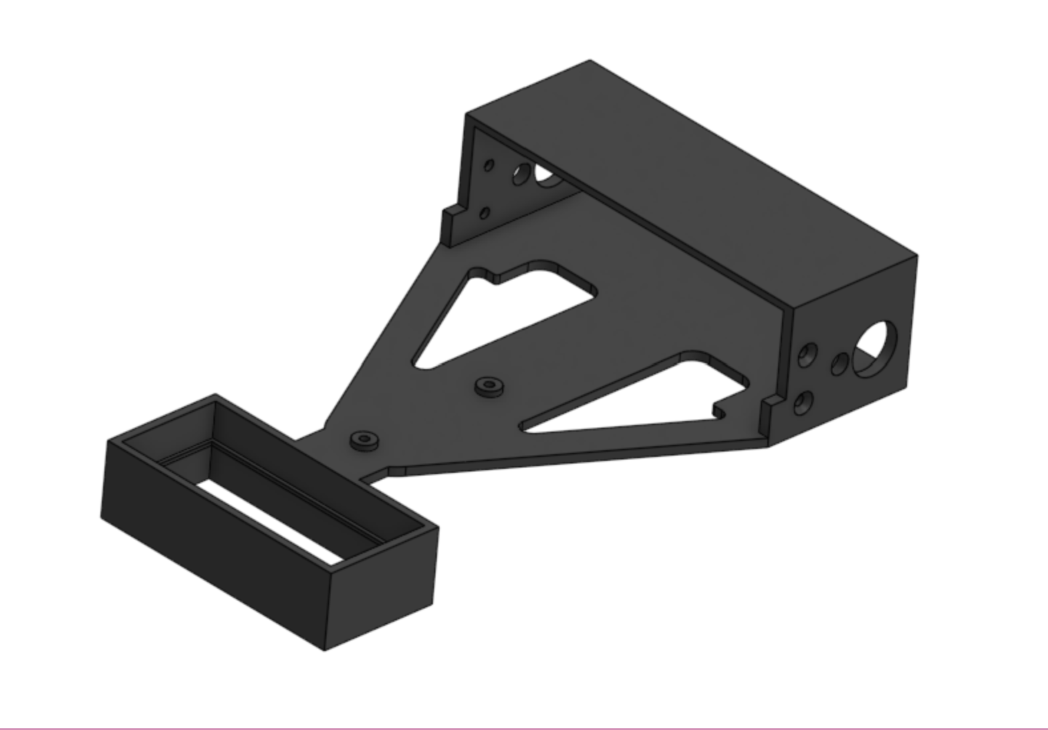
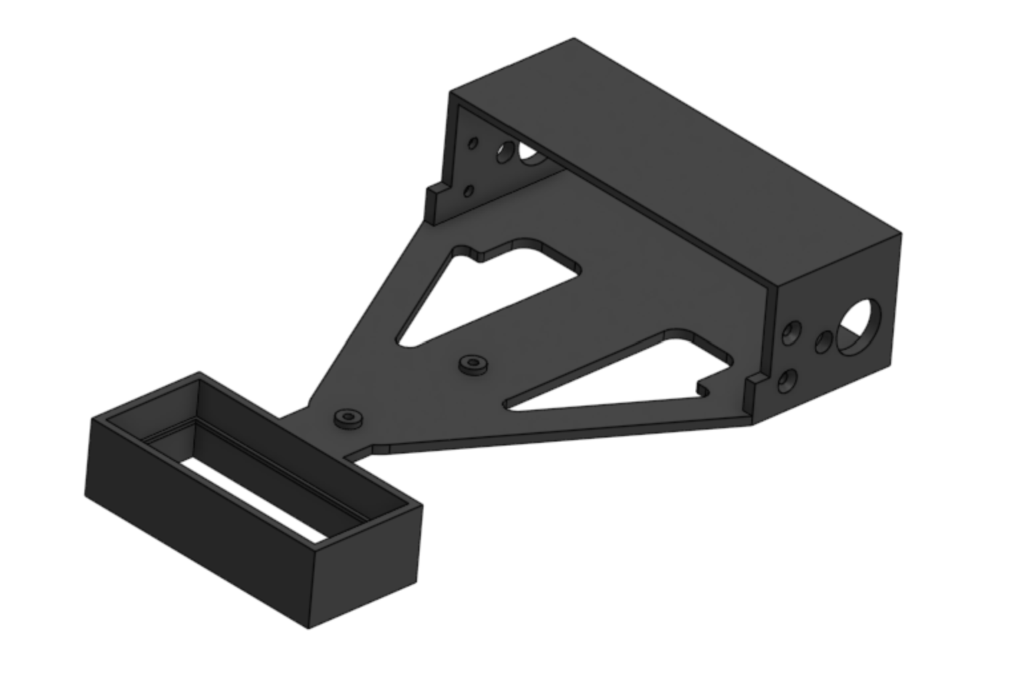
Added poster

diff --git a/index.html b/index.html
@@ -64,7 +64,7 @@
   <p>We used kP = , kI = , kD = ...</p>
 
   <h3>Poster</h3>
-  <img src="images/Assembled ver.1.jpg" 
+  <img src="images/Team Amaze.png" 
     alt="Poster"
     style="width: 60%; height: auto;">
     <figcaption class="image-caption">